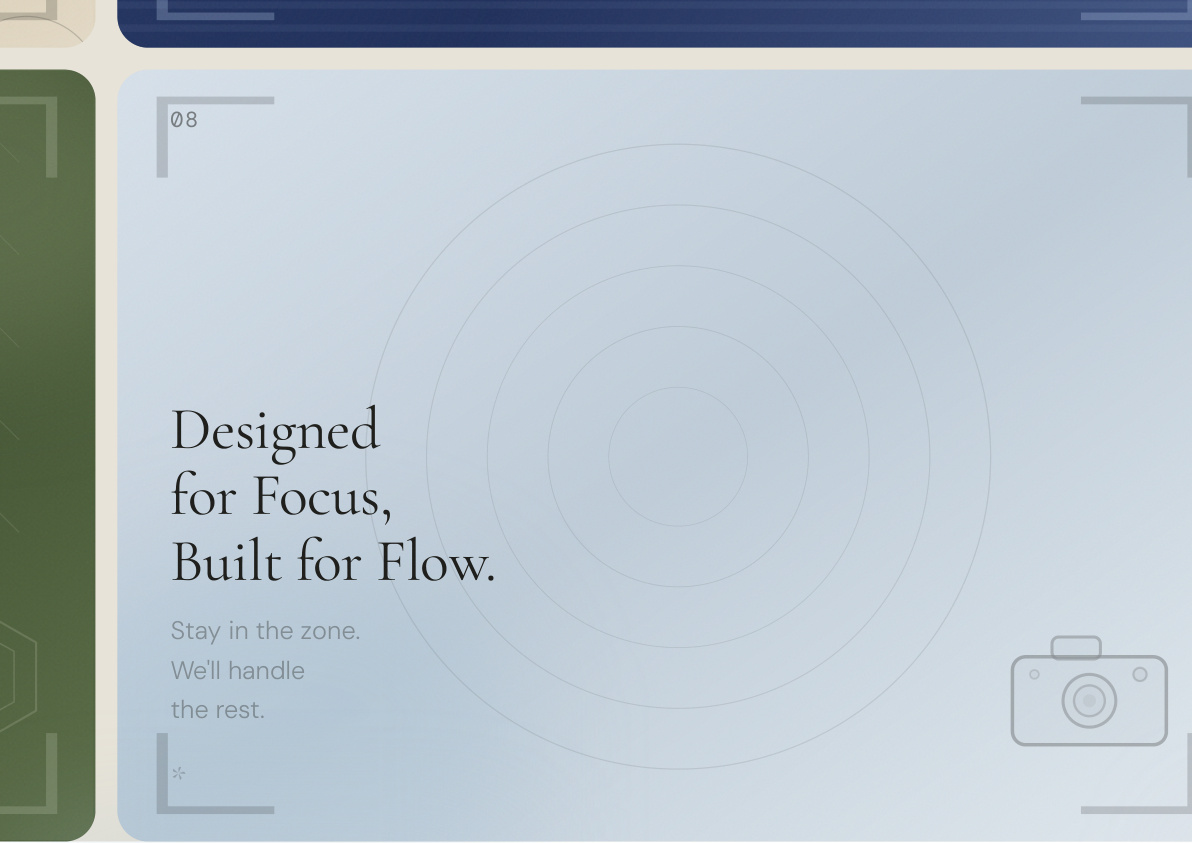
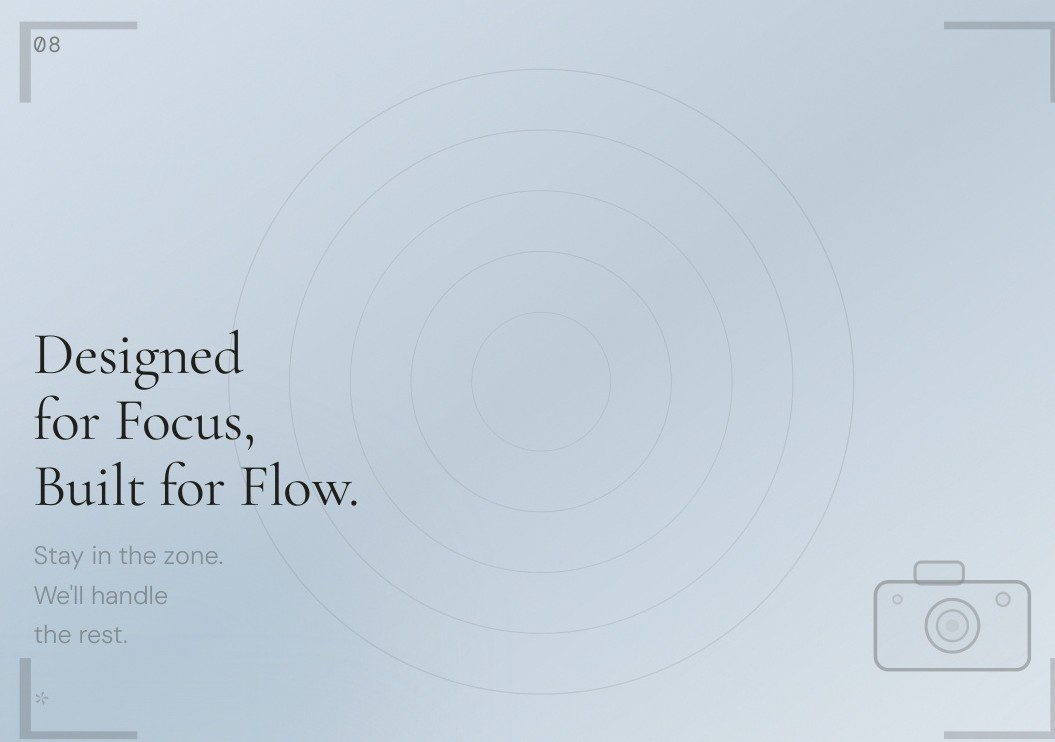
feat(work): redesign More Work card with layered flower scene and update project covers
- Replace More Work card background with layered SVG flower scene:
  sparse sage-green top fading to dense blurry blooms at bottom
- Add dual diagonal border-beam animation (2px, 180° apart)
- Switch card text to dark forest ink for contrast on light background
- Add All tab showing all 9 projects in order
- Update cover images: SmartHire/GameFlow→0404.png, Kanelär→kan.png,
  AIHub→aihubhub.png, KörkortHub→kortkort.png
- Remove unused cover assets (cover_b3.jpg, cover_c.jpg)

diff --git a/index.html b/index.html
@@ -330,50 +330,97 @@
     .project-card:nth-child(8) .project-thumb-bg { background: #1b2e20; padding: 0 2.5rem; text-align: center; }
     .project-card:nth-child(9) .project-thumb-bg { background: #1e3328; padding: 0 2.5rem; text-align: center; }
 
-    /* ─── MORE WORK CARD ─────────────────────────────── */
+    /* ─── MORE WORK CARD — Meadow Scene ──────────────── */
+    @property --mwc-angle {
+      syntax: '<angle>';
+      inherits: false;
+      initial-value: 0deg;
+    }
+    @keyframes mwc-beam-spin {
+      to { --mwc-angle: 360deg; }
+    }
     .more-work-card {
       display: none;
-      background: rgba(255,255,255,.18);
-      backdrop-filter: blur(18px) saturate(1.4);
-      -webkit-backdrop-filter: blur(18px) saturate(1.4);
-      border: 1px solid rgba(255,255,255,.35);
-      box-shadow: inset 0 1px 0 rgba(255,255,255,.45), 0 8px 32px rgba(58,74,46,.12);
+      position: relative;
+      overflow: hidden;
       cursor: none;
-      align-items: center; justify-content: center;
-      flex-direction: column;
-      gap: .75rem;
       min-height: 220px;
-      transition: background .3s var(--ease), box-shadow .3s var(--ease);
-      text-decoration: none;
+      transition: transform .4s var(--ease);
     }
-    .more-work-card.visible { display: flex; }
-    .more-work-card:hover {
-      background: rgba(255,255,255,.28);
-      box-shadow: inset 0 1px 0 rgba(255,255,255,.55), 0 12px 40px rgba(58,74,46,.18);
+    .more-work-card.visible { display: block; }
+    .more-work-card:hover { transform: scale(1.012); }
+    /* Border — two diagonal opposite light-beam sweeps */
+    .more-work-card.visible::after {
+      content: '';
+      position: absolute; inset: 0;
+      padding: 2px;
+      background: conic-gradient(
+        from var(--mwc-angle),
+        transparent 0deg,
+        transparent 163deg,
+        rgba(248,242,225,.0)  168deg,
+        rgba(248,242,225,.52) 176deg,
+        rgba(248,242,225,.92) 181deg,
+        rgba(248,242,225,.52) 186deg,
+        rgba(248,242,225,.0)  193deg,
+        transparent 343deg,
+        rgba(248,242,225,.0)  348deg,
+        rgba(248,242,225,.52) 356deg,
+        rgba(248,242,225,.92) 361deg,
+        rgba(248,242,225,.52) 366deg
+      );
+      -webkit-mask: linear-gradient(#fff 0 0) content-box, linear-gradient(#fff 0 0);
+      mask: linear-gradient(#fff 0 0) content-box, linear-gradient(#fff 0 0);
+      -webkit-mask-composite: xor;
+      mask-composite: exclude;
+      animation: mwc-beam-spin 5s linear infinite;
+      z-index: 1; pointer-events: none;
     }
-    .more-work-card-label {
-      font-family: var(--font-mon); font-size: .7rem;
-      letter-spacing: .18em; text-transform: uppercase;
-      color: rgba(58,74,46,.6);
+    .mwc-scene {
+      position: absolute; inset: 0;
+      width: 100%; height: 100%;
+      display: block;
     }
-    .more-work-card-text {
-      font-family: var(--font-serif); font-size: 1.85rem;
-      font-weight: 400; color: var(--ink);
-      line-height: 1.1;
+    .mwc-content {
+      position: absolute;
+      top: 50%; left: 50%;
+      transform: translate(-50%, -50%);
+      display: flex; flex-direction: column;
+      align-items: center; gap: .5rem;
+      z-index: 2; text-align: center;
+      pointer-events: none;
     }
-    .more-work-card-arrow {
-      width: 38px; height: 38px;
-      border: 1.5px solid rgba(58,74,46,.3);
+    .mwc-label {
+      font-family: var(--font-serif); font-size: .72rem;
+      font-style: italic; letter-spacing: .07em;
+      color: rgba(28,38,18,.85);
+      background: rgba(238,233,218,.68);
+      backdrop-filter: blur(6px);
+      -webkit-backdrop-filter: blur(6px);
+      padding: .28rem 1rem; border-radius: 100px;
+      border: 1px solid rgba(28,38,18,.18);
+    }
+    .mwc-title {
+      font-family: var(--font-serif); font-size: 2.15rem;
+      font-weight: 400; font-style: italic;
+      color: rgba(28,38,18,.88);
+      text-shadow: 0 1px 12px rgba(238,233,218,.55), 0 0 32px rgba(210,205,188,.35);
+      line-height: 1; letter-spacing: .015em;
+    }
+    .mwc-arrow {
+      width: 36px; height: 36px;
+      border: 1.5px solid rgba(28,38,18,.42);
       border-radius: 50%;
       display: flex; align-items: center; justify-content: center;
-      margin-top: .3rem;
+      margin-top: calc(.1rem + 10px);
       transition: border-color .3s, transform .3s var(--ease);
+      color: rgba(28,38,18,.82);
     }
-    .more-work-card:hover .more-work-card-arrow {
-      border-color: rgba(58,74,46,.8);
+    .more-work-card:hover .mwc-arrow {
+      border-color: rgba(28,38,18,.78);
       transform: translateX(4px);
     }
-    .more-work-card-arrow svg { width: 14px; height: 14px; }
+    .mwc-arrow svg { width: 13px; height: 13px; }
 
     /* ─── HOVER-REVEAL PHOTO ──────────────────────────── */
     .project-thumb-photo {
@@ -766,27 +813,58 @@
     .cover-sub  { display: none; }
     .cover-deco { display: none; }
 
-    /* ── 01cover — cards 01 04 07 ───────────────────────────────── */
-    .card-cover--07, .card-cover--01, .card-cover--08 {
+    /* ── 01cover — cards 01 04 ─────────────────────────────────── */
+    /* ── 0404.png — card 01 (SmartHire) ────────────────────────── */
+    .card-cover--07 {
       --title-color: rgba(38,48,18,.84);
       --num-color:   rgba(38,48,18,1);
-      background: url('01cover.jpg') center/cover no-repeat;
+      background: url('0404.png') center/cover no-repeat;
+    }
+    /* ── cover_a.jpg — card 03 (Kaleido) ───────────────────────── */
+    .card-cover--01 {
+      --title-color: rgba(35,50,65,.82);
+      --num-color:   rgba(35,50,65,1);
+      background: url('cover_a.jpg') center/cover no-repeat;
+    }
+    /* ── kortkort.png — card 07 (KörkortHub) ───────────────────── */
+    .card-cover--08 {
+      --title-color: rgba(42,55,70,.82);
+      --num-color:   rgba(42,55,70,1);
+      background: url('kortkort.png') center/cover no-repeat;
     }
 
-    /* ── 02cover — cards 02 05 08 ───────────────────────────────── */
-    .card-cover--03, .card-cover--06 {
+    /* ── 0404.png — card 02 (GameFlow) ─────────────────────────── */
+    .card-cover--03 {
       --title-color: rgba(38,48,18,.80);
       --num-color:   rgba(38,48,18,1);
-      background: url('02cover.jpg') center/cover no-repeat;
+      background: url('0404.png') center/cover no-repeat;
+    }
+    /* ── 01cover.jpg — card 08 (SoundClimb) ────────────────────── */
+    .card-cover--06 {
+      --title-color: rgba(38,48,18,.80);
+      --num-color:   rgba(38,48,18,1);
+      background: url('01cover.jpg') center/cover no-repeat;
     }
     .card-cover--05 {
       --title-color: rgba(255,252,255,.90);
       --num-color:   rgba(255,252,255,1);
-      background: url('cover_aihub.jpg') center/cover no-repeat;
+      background: url('aihubhub.png') center/cover no-repeat;
     }
 
-    /* ── 03cover — cards 03 06 09 ───────────────────────────────── */
-    .card-cover--04, .card-cover--09, .card-cover--02 {
+    /* ── 00c.png — card 04 (Kanelär) ───────────────────────────── */
+    .card-cover--04 {
+      --title-color: rgba(88,50,22,.85);
+      --num-color:   rgba(88,50,22,1);
+      background: url('kan.png') center/cover no-repeat;
+    }
+    /* ── cover_b.jpg — card 06 (KANKAN) ────────────────────────── */
+    .card-cover--09 {
+      --title-color: rgba(48,42,72,.82);
+      --num-color:   rgba(48,42,72,1);
+      background: url('cover_b.jpg') center/cover no-repeat;
+    }
+    /* ── 03cover.jpg — card 09 (Social VR) ─────────────────────── */
+    .card-cover--02 {
       --title-color: rgba(38,48,18,.84);
       --num-color:   rgba(38,48,18,1);
       background: url('03cover.jpg') center/cover no-repeat;
@@ -1048,6 +1126,8 @@
       <button class="work-tab" data-tab="enterprise" role="tab" aria-selected="false">Enterprise</button>
       <span class="work-tab-sep" aria-hidden="true">&middot;</span>
       <button class="work-tab" data-tab="ai-powered" role="tab" aria-selected="false">AI-Powered</button>
+      <span class="work-tab-sep" aria-hidden="true">&middot;</span>
+      <button class="work-tab" data-tab="all" role="tab" aria-selected="false">All</button>
     </div>
 
     <div class="work-grid">
@@ -1661,14 +1741,122 @@
         </a>
       </article>
 
-      <!-- More work card — visible only in Design tab, triggers All view -->
+      <!-- More work card — mini hero flower scene -->
       <div class="more-work-card" id="more-work-card" role="button" tabindex="0" aria-label="Show all projects">
-        <div class="more-work-card-label">9 projects total</div>
-        <div class="more-work-card-text">More work</div>
-        <div class="more-work-card-arrow">
-          <svg viewBox="0 0 14 14" fill="none" stroke="var(--ink)" stroke-width="1.5" stroke-linecap="round" stroke-linejoin="round">
-            <path d="M2 7h10M8 3l4 4-4 4"/>
-          </svg>
+        <svg class="mwc-scene" viewBox="0 0 480 280" preserveAspectRatio="xMidYMid slice"
+             xmlns="http://www.w3.org/2000/svg" aria-hidden="true">
+          <defs>
+            <linearGradient id="mwc-depth" x1="0" y1="0" x2="0" y2="1">
+              <stop offset="0%"   stop-color="#c5cdb2" stop-opacity="0"/>
+              <stop offset="48%"  stop-color="#c5cdb2" stop-opacity="0"/>
+              <stop offset="78%"  stop-color="#bfc8a8" stop-opacity="0.10"/>
+              <stop offset="100%" stop-color="#b8c2a0" stop-opacity="0.26"/>
+            </linearGradient>
+          </defs>
+
+          <!-- ① Sage green base — clean, light, minimal depth -->
+          <rect width="480" height="280" fill="#c5cdb2"/>
+          <ellipse cx="240" cy="72"  rx="300" ry="175" fill="#bfc9aa" opacity="0.52"/>
+          <ellipse cx="110" cy="195" rx="196" ry="138" fill="#b8c2a2" opacity="0.38"/>
+          <ellipse cx="385" cy="208" rx="218" ry="148" fill="#c0cab0" opacity="0.36"/>
+
+          <!-- ② Upper sparse blossom hints — barely-there, y=38-132, ff-sm filter -->
+          <g class="hf-detail" filter="url(#ff-sm)" opacity="0.50">
+            <ellipse cx="84"  cy="44"  rx="9"  ry="7"  fill="#d0c2d8"/>
+            <ellipse cx="198" cy="38"  rx="8"  ry="6"  fill="#d8c8ca"/>
+            <ellipse cx="318" cy="46"  rx="10" ry="7"  fill="#ccc0d6"/>
+            <ellipse cx="432" cy="40"  rx="8"  ry="6"  fill="#d4c4cc"/>
+            <ellipse cx="50"  cy="74"  rx="11" ry="8"  fill="#c8bcd4"/>
+            <ellipse cx="162" cy="68"  rx="9"  ry="7"  fill="#d6c8c4"/>
+            <ellipse cx="276" cy="76"  rx="10" ry="8"  fill="#c4b8d0"/>
+            <ellipse cx="390" cy="70"  rx="9"  ry="7"  fill="#d2c2ce"/>
+            <ellipse cx="472" cy="74"  rx="8"  ry="6"  fill="#ccbcd8"/>
+            <ellipse cx="24"  cy="102" rx="12" ry="9"  fill="#c0b2cc"/>
+            <ellipse cx="122" cy="110" rx="10" ry="8"  fill="#d4bcc4"/>
+            <ellipse cx="240" cy="104" rx="11" ry="8"  fill="#c6bad2"/>
+            <ellipse cx="354" cy="112" rx="10" ry="7"  fill="#d0bece"/>
+            <ellipse cx="462" cy="106" rx="9"  ry="7"  fill="#ccc0d4"/>
+            <ellipse cx="72"  cy="124" rx="11" ry="8"  fill="#c2b4ce"/>
+            <ellipse cx="188" cy="130" rx="10" ry="8"  fill="#d6c2c4"/>
+            <ellipse cx="304" cy="126" rx="11" ry="8"  fill="#c4b8d2"/>
+            <ellipse cx="418" cy="132" rx="10" ry="7"  fill="#cebccc"/>
+          </g>
+
+          <!-- ③ Mid blooms — sparse at top, growing denser downward, hf-mid + ff-mid -->
+          <g class="hf-mid" filter="url(#ff-mid)" opacity="0.74">
+            <ellipse cx="50"  cy="100" rx="14" ry="11" fill="#d4b8cc"/>
+            <ellipse cx="140" cy="94"  rx="16" ry="12" fill="#baaece"/>
+            <ellipse cx="280" cy="90"  rx="15" ry="11" fill="#d0b8c4"/>
+            <ellipse cx="420" cy="98"  rx="16" ry="12" fill="#c4b4d4"/>
+            <ellipse cx="24"  cy="130" rx="19" ry="14" fill="#c2b0d0"/>
+            <ellipse cx="116" cy="136" rx="17" ry="13" fill="#d6b4be"/>
+            <ellipse cx="214" cy="128" rx="18" ry="14" fill="#bcb0d2"/>
+            <ellipse cx="312" cy="137" rx="17" ry="13" fill="#cebeda"/>
+            <ellipse cx="410" cy="130" rx="19" ry="14" fill="#d2b2bc"/>
+            <ellipse cx="470" cy="135" rx="14" ry="11" fill="#c4bcd4"/>
+            <ellipse cx="50"  cy="160" rx="20" ry="16" fill="#c0b0ce"/>
+            <ellipse cx="140" cy="166" rx="19" ry="15" fill="#d8b8c2"/>
+            <ellipse cx="230" cy="158" rx="21" ry="16" fill="#baaed0"/>
+            <ellipse cx="320" cy="167" rx="20" ry="15" fill="#ccbcda"/>
+            <ellipse cx="410" cy="160" rx="21" ry="16" fill="#d4b2bc"/>
+            <ellipse cx="470" cy="165" rx="17" ry="13" fill="#c2bcd6"/>
+            <ellipse cx="18"  cy="188" rx="22" ry="17" fill="#c2b0cc"/>
+            <ellipse cx="106" cy="194" rx="21" ry="16" fill="#d4b6c0"/>
+            <ellipse cx="196" cy="186" rx="23" ry="18" fill="#bcb0d0"/>
+            <ellipse cx="286" cy="195" rx="22" ry="17" fill="#ccbede"/>
+            <ellipse cx="376" cy="188" rx="23" ry="18" fill="#d0b0b8"/>
+            <ellipse cx="458" cy="193" rx="19" ry="15" fill="#c4bcd6"/>
+            <ellipse cx="56"  cy="214" rx="24" ry="19" fill="#c4b6d2"/>
+            <ellipse cx="148" cy="220" rx="23" ry="18" fill="#d6b8c4"/>
+            <ellipse cx="240" cy="212" rx="25" ry="20" fill="#baaed2"/>
+            <ellipse cx="330" cy="221" rx="24" ry="19" fill="#cebcd6"/>
+            <ellipse cx="416" cy="214" rx="25" ry="20" fill="#d4b2be"/>
+            <ellipse cx="474" cy="219" rx="19" ry="15" fill="#c2bcd8"/>
+            <ellipse cx="20"  cy="242" rx="26" ry="20" fill="#c0b4d0"/>
+            <ellipse cx="114" cy="248" rx="25" ry="19" fill="#d8b8c2"/>
+            <ellipse cx="208" cy="241" rx="27" ry="21" fill="#bab0d2"/>
+            <ellipse cx="302" cy="249" rx="26" ry="20" fill="#cebad8"/>
+            <ellipse cx="396" cy="242" rx="27" ry="21" fill="#d2b0bc"/>
+            <ellipse cx="468" cy="247" rx="21" ry="16" fill="#c4bcd6"/>
+          </g>
+
+          <!-- ④ Dense blurry lower layer — ff-fg heavy blur, growing toward bottom -->
+          <g class="hf-fg" filter="url(#ff-fg)" opacity="0.56">
+            <ellipse cx="64"  cy="192" rx="44" ry="34" fill="#c0aece"/>
+            <ellipse cx="200" cy="198" rx="46" ry="36" fill="#d4b8c0"/>
+            <ellipse cx="336" cy="191" rx="44" ry="34" fill="#b8aed4"/>
+            <ellipse cx="462" cy="196" rx="38" ry="30" fill="#ccb0be"/>
+            <ellipse cx="0"   cy="193" rx="34" ry="27" fill="#d0bcd6"/>
+            <ellipse cx="96"  cy="225" rx="50" ry="40" fill="#c8b4d0"/>
+            <ellipse cx="228" cy="231" rx="52" ry="42" fill="#d2b0bc"/>
+            <ellipse cx="360" cy="224" rx="50" ry="40" fill="#bcb2d6"/>
+            <ellipse cx="472" cy="229" rx="40" ry="32" fill="#ccb8d8"/>
+            <ellipse cx="14"  cy="226" rx="38" ry="30" fill="#d8c4c0"/>
+            <ellipse cx="52"  cy="258" rx="56" ry="44" fill="#c4b4d4"/>
+            <ellipse cx="184" cy="264" rx="58" ry="46" fill="#d8bcc8"/>
+            <ellipse cx="316" cy="257" rx="56" ry="44" fill="#b8b0d2"/>
+            <ellipse cx="448" cy="262" rx="50" ry="40" fill="#ceb8d8"/>
+            <ellipse cx="480" cy="258" rx="36" ry="29" fill="#d2b0bc"/>
+            <ellipse cx="80"  cy="278" rx="64" ry="50" fill="#c2b2d4"/>
+            <ellipse cx="216" cy="284" rx="66" ry="52" fill="#d4c0c8"/>
+            <ellipse cx="352" cy="277" rx="62" ry="49" fill="#baaed0"/>
+            <ellipse cx="476" cy="281" rx="52" ry="42" fill="#ccb4c2"/>
+            <ellipse cx="0"   cy="280" rx="44" ry="35" fill="#d0bcd8"/>
+          </g>
+
+          <!-- ⑤ Depth gradient overlay — transparent top, subtle sage wash at bottom -->
+          <rect width="480" height="280" fill="url(#mwc-depth)" pointer-events="none"/>
+        </svg>
+
+        <div class="mwc-content">
+          <div class="mwc-label">9 projects total</div>
+          <div class="mwc-title">More work</div>
+          <div class="mwc-arrow">
+            <svg viewBox="0 0 14 14" fill="none" stroke="currentColor" stroke-width="1.5"
+                 stroke-linecap="round" stroke-linejoin="round">
+              <path d="M2 7h10M8 3l4 4-4 4"/>
+            </svg>
+          </div>
         </div>
       </div>
 
@@ -1826,7 +2014,7 @@
       <div class="contact-right">
         <p>
           Currently seeking <strong style="color:var(--accent-lt);">full-time opportunities</strong>.
-          Always open to new challenges or a fika chat 🍰 Let's connect!
+          Always open to new challenges or a fika chat. Let's connect!
         </p>
         <div class="contact-links">
           <a href="https://www.linkedin.com/in/xiangyu-shi99/" target="_blank" class="contact-link-item">
@@ -1952,7 +2140,7 @@ const cursor = document.getElementById('cursor');
 
       function filterCards(cat) {
         cards.forEach(card => {
-          const match = card.dataset.category.split(' ').includes(cat);
+          const match = cat === 'all' || card.dataset.category.split(' ').includes(cat);
           card.style.display = match ? '' : 'none';
         });
         moreCard.classList.toggle('visible', cat === 'featured');
